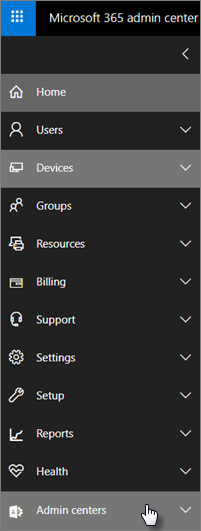
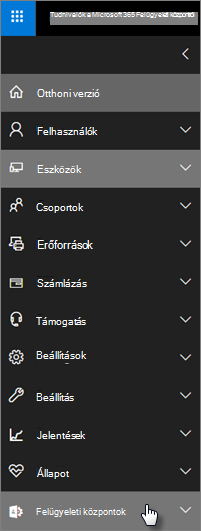
commit translated contents

diff --git a/microsoft-365/business/security-features.md b/microsoft-365/business/security-features.md
@@ -24,18 +24,18 @@ search.appverid:
 - MET150
 ms.assetid: c123694a-1efb-459e-a8d5-2187975373dc
 description: Ismerje meg a számítógéphez, telefonhoz és táblagéphez Microsoft 365 Vállalati prémium verzió biztonsági funkciókat.
-ms.openlocfilehash: 974204e100d3228f78406aca4acce67a889b08c3
-ms.sourcegitcommit: 05f40904f8278f53643efa76a907968b5c662d9a
+ms.openlocfilehash: 50b74ed18d641e8de38db3284c3ef3abf319825f4f7dbe02b6575f6c0fbc6f85
+ms.sourcegitcommit: a1b66e1e80c25d14d67a9b46c79ec7245d88e045
 ms.translationtype: MT
 ms.contentlocale: hu-HU
-ms.lasthandoff: 04/30/2021
-ms.locfileid: "52113466"
+ms.lasthandoff: 08/05/2021
+ms.locfileid: "53887573"
 ---
 # <a name="microsoft-365-business-premium-security-and-compliance-features"></a>Microsoft 365 Vállalati prémium verzió biztonsági és megfelelőségi funkciók
 
 Microsoft 365 Vállalati prémium verzió rendszer egyszerűsített biztonsági funkciókat biztosít, amelyek segítenek a PC-n, telefonon és táblagépen található adatok védelmében.
     
-## <a name="microsoft-365-admin-center-security-features"></a>Microsoft 365 Felügyeleti központ biztonsági funkciói
+## <a name="microsoft-365-admin-center-security-features"></a>Microsoft 365 Felügyeleti központ biztonsági funkciók
 
 A Felügyeleti központ számos biztonsági Microsoft 365 Vállalati prémium verzió funkcióját kezelheti, így egyszerűbben kapcsolhatja be és ki ezeket a funkciókat. A Felügyeleti központban az alábbi lehetőségek közül választhat:
   
@@ -49,7 +49,7 @@ A Felügyeleti központ számos biztonsági Microsoft 365 Vállalati prémium ve
     
 - [Eszközvédelmi beállítások megadása Windows 10 eszközökhöz.](protection-settings-for-windows-10-pcs.md) 
     
-    A titkosítás [](/windows/security/information-protection/bitlocker/bitlocker-frequently-asked-questions) engedélyezésével BitLocker megvédheti az adatokat abban az esetben, ha ellopnak vagy ellopnak egy eszközt, és lehetővé teheti a [Windows Exploit Guardnak,](/windows/security/threat-protection/microsoft-defender-atp/enable-exploit-protection) hogy speciális védelmet nyújtson a zsarolóvírusok ellen. 
+    A [BitLocker-titkosítás engedélyezésével](/windows/security/information-protection/bitlocker/bitlocker-frequently-asked-questions) megvédheti az adatokat abban az esetben, ha ellopnak vagy ellopnak egy eszközt, és lehetővé teheti, hogy a [Windows Biztonsági](/windows/security/threat-protection/microsoft-defender-atp/enable-exploit-protection) rés kiaknázása elleni védelem a zsarolóvírusok ellen nyújtson speciális védelmet. 
     
 - [Céges adatok eltávolítása az eszközökről](remove-company-data.md)
     
@@ -73,8 +73,8 @@ A számítógépes Microsoft 365 Vállalati prémium verzió speciális funkció
 
 - **[Az Intune teljes funkciói az Azure Portalon](/mem/intune/fundamentals/what-is-intune)**
     
-    Az Intune Felügyeleti központ Azure Portalon való elérésével további biztonsági funkciókat állíthat be, például a MacOS-eszközök, az iPhone és az Android-eszközök kezelését, valamint az Windows speciális eszközkezelését, amelyek nem érhetők el Microsoft 365 Felügyeleti központon keresztül.
-- **Az [](/azure/active-directory/conditional-access/overview) Azure AD Prémium P1 csomagra érvényes feltételes hozzáférés**
+    Ha az Intune felügyeleti központot használja az Azure Portalon, további biztonsági funkciókat állíthat be, például a MacOS-eszközök, az iPhone és az Android-eszközök kezelését, valamint az Windows speciális eszközkezelési funkcióit, amelyek nem érhetők el a Microsoft 365 Felügyeleti központ-ban.
+- **A [feltételes hozzáférés ugyanaz,](/azure/active-directory/conditional-access/overview) mint Prémium P1 szintű Azure AD terv**
 
 
     A feltételes hozzáféréssel megvédheti szervezetét a bejelentkezési kockázatoktól, a váratlan hálózatoktól vagy területi beállításoktól származó hozzáférési kísérletektől, a veszélyes eszköztípusoktól származó hozzáférési kísérletektől stb. A feltételes hozzáférési házirendek az első hitelesítés befejezése után érvényesülnek, és az első hitelesítési esemény szignálja alapján határozzák meg, hogy a hozzáférést jóvá kell-e hagyni, megtagadni vagy további bizonyítékra van szükség (például egy másik azonosításra).
@@ -108,7 +108,7 @@ Az Microsoft 365 Vállalati prémium verzió előfizetése olyan szolgáltatáso
 
    Microsoft 365 Vállalati prémium verzió Azure [Information Protection 1. csomag összes funkcióját tartalmazza.](https://go.microsoft.com/fwlink/p/?linkid=871407) Ezzel a csomaggal  bizalmas címkéket hozhat létre, amelyek lehetővé teszik az e-mailekben és dokumentumokban található bizalmas információkhoz való hozzáférést a "Nincs továbbítás" és a "Nincs másolás" vezérlőkkel. A bizalmas adatokat "Bizalmas" kategóriába is sorolhatja, és megadhatja, hogy a bizalmas információkat hogyan lehet megosztani a vállalaton belül és kívül. A nagyvállalati szintű titkosítás egyszerűen alkalmazható az e-mailekre és a dokumentumokra, hogy adatai privátak maradnak. Telepítheti az Azure Information Protection client bővítményt Office alkalmazásokhoz. További információ: [Az Azure Information Protection egyesített címkézési ügyfélalkalmazása.](/azure/information-protection/rms-client/unifiedlabelingclient-version-release-history) Bizalmasság-címkékhez telepítse a **AzInfoProtection_UL.exe.**
 
-Ezeket a funkciókat a Biztonsági megfelelőségi központban és az &amp; Intune Felügyeleti központban kezelheti. Idővel az egyszerűsített vezérlők bekerülnek a felügyeleti Microsoft 365 felügyeleti központba.
+Ezeket a funkciókat a Biztonsági megfelelőségi központban és az &amp; Intune Felügyeleti központban kezelheti. Idővel az egyszerűsített vezérlők bekerülnek a Microsoft 365 Felügyeleti központ.
   
     
 ## <a name="faq"></a>GYIK
@@ -123,6 +123,6 @@ Igen, ezek a funkciók minden olyan piacon elérhetők, ahol a Microsoft 365 Vá
     
 2. A bal oldali navigációs sávon keresse meg a **Felügyeleti központokat,** és bontsa ki. 
     
-    ![A Felügyeleti központ bal oldali navigációs sávjában Microsoft 365 Felügyeleti központok lehetőséget.](../media/fa4484f8-c637-45fd-a7bd-bdb3abfd6c03.png)
+    ![A bal oldali navigációs sávon válassza Microsoft 365 Felügyeleti központ Felügyeleti központok lehetőséget.](../media/fa4484f8-c637-45fd-a7bd-bdb3abfd6c03.png)
   
 3. Válassza **a Biztonsági megfelelőség &amp; lehetőséget** a Biztonsági megfelelőségi &amp; központba való ugráshoz.

diff --git a/microsoft-365/business/install-office-on-windows-10-during-setup.md b/microsoft-365/business/install-office-on-windows-10-during-setup.md
@@ -25,18 +25,18 @@ search.appverid:
 - MET150
 - MOE150
 ms.assetid: 5ffd5327-a83a-4d53-94d6-22ba2f9fd090
-description: A Microsoft 365 Business Premium segítségével automatikusan meg lehet győződni arról, hogy a felhasználók az Office legújabb verzióját minden Windows 10-es eszközükön használhatja.
-ms.openlocfilehash: d3c62eb42ea73c7af6df6012dbc9488828cd1ba8
-ms.sourcegitcommit: 53acc851abf68e2272e75df0856c0e16b0c7e48d
+description: A Microsoft 365 Vállalati prémium verzió meg arról, hogy a felhasználók az összes Windows 10 eszközükön automatikusan a Office legújabb Windows 10-et.
+ms.openlocfilehash: 869a44196e93ed0c9f7f6f64b21fe9b2302e9a48c4b0bdcdc3a09d28bb954d1c
+ms.sourcegitcommit: a1b66e1e80c25d14d67a9b46c79ec7245d88e045
 ms.translationtype: MT
 ms.contentlocale: hu-HU
-ms.lasthandoff: 04/02/2021
-ms.locfileid: "51580174"
+ms.lasthandoff: 08/05/2021
+ms.locfileid: "53887543"
 ---
 # <a name="install-office-on-windows-10-during-setup"></a>Az Office telepítése Windows 10-es eszközön a telepítés során
 
 ![Banner that point to https://aka.ms/aboutM365preview .](../media/m365admincenterchanging.png)
 
-Ez a beállítás alapértelmezés szerint ki van kapcsolva. Bekapcsolhatja azt, hogy a felhasználók az Office legújabb verzióját minden Windows 10-es eszközükön el tudja látni, de először győződjön meg arról, hogy minden előfeltétel teljesül. A felkészülés Office-ügyfél központi telepítésére a [Microsoft 365](prepare-for-office-client-deployment.md)Vállalati prémium verzió által leírt egyéb követelményeken kívül a felhasználóknak licenccel kell ahhoz, hogy ez a beállítás a szoftvert az eszközre tolja.
+Ez a beállítás alapértelmezés szerint ki van kapcsolva. Bekapcsolhatja azt, hogy a felhasználók az összes Office eszközükön a Windows 10 legújabb verzióját, de először ellenőrizze, hogy minden előfeltétel teljesül-e. Microsoft 365 Vállalati prémium verzió Ahhoz, hogy a felhasználók a Felkészülés ügyfél központi telepítésére Office az ügyfélprogram telepítésére a Office segítségével leírtakon kívül lekuldják a szoftvert az eszközre, licenccel kell Office [licenccel Microsoft 365 Vállalati prémium verzió.](prepare-for-office-client-deployment.md)
   
 Azt javasoljuk, hogy a telepítés során az alapértelmezett beállítást fogadja el.

diff --git a/microsoft-365/business/migrate-to-microsoft-365-business.md b/microsoft-365/business/migrate-to-microsoft-365-business.md
@@ -24,12 +24,12 @@ search.appverid:
 - MET150
 ms.assetid: 5b4ba843-24b8-4526-8e1f-f9b9eab89d06
 description: Ismerje meg a különbségeket a Microsoft 365 Vállalati standard verzió és a Microsoft 365 Vállalati prémium verzió, valamint arról, hogy miként frissíthet a Microsoft 365 Vállalati prémium verzió.
-ms.openlocfilehash: 0968b877820590987f6f3ceca3efbd106b62cbd1
-ms.sourcegitcommit: a05f61a291eb4595fa9313757a3815b7f217681d
+ms.openlocfilehash: 563df2610351e2c025c618086c038750999c03df60b93b757865f76fbf86c834
+ms.sourcegitcommit: a1b66e1e80c25d14d67a9b46c79ec7245d88e045
 ms.translationtype: MT
 ms.contentlocale: hu-HU
-ms.lasthandoff: 05/29/2021
-ms.locfileid: "52705490"
+ms.lasthandoff: 08/05/2021
+ms.locfileid: "53906727"
 ---
 # <a name="upgrade-to-microsoft-365-business-premium-from-microsoft-365-business-standard"></a>Frissítés Microsoft 365 Vállalati prémium verzió verzióra Microsoft 365 Vállalati standard verzió
 
